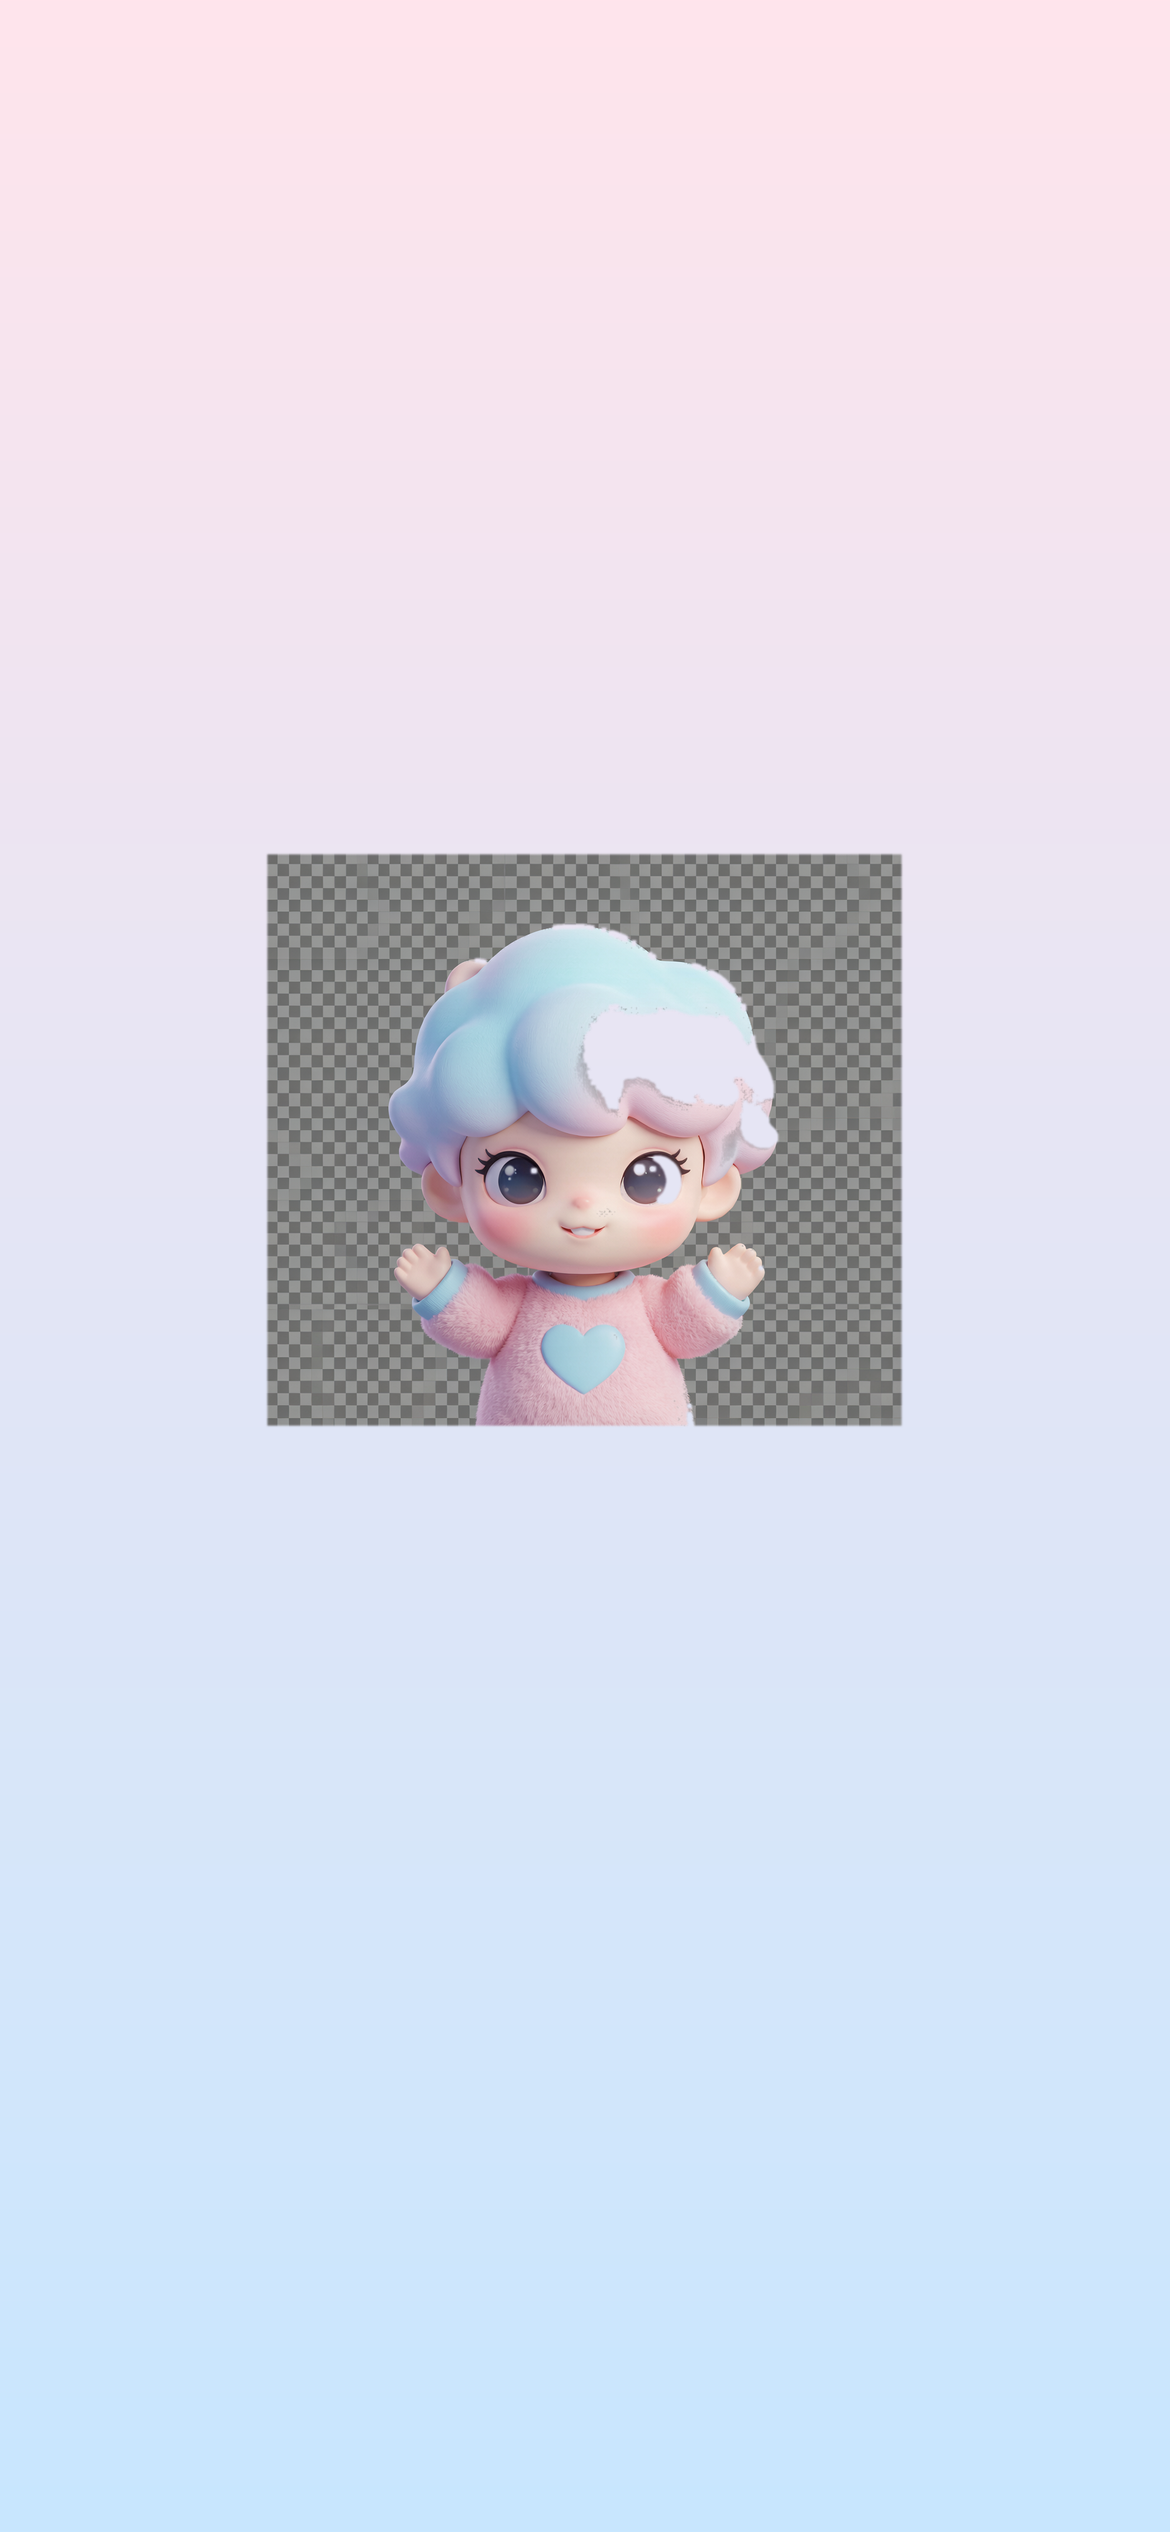
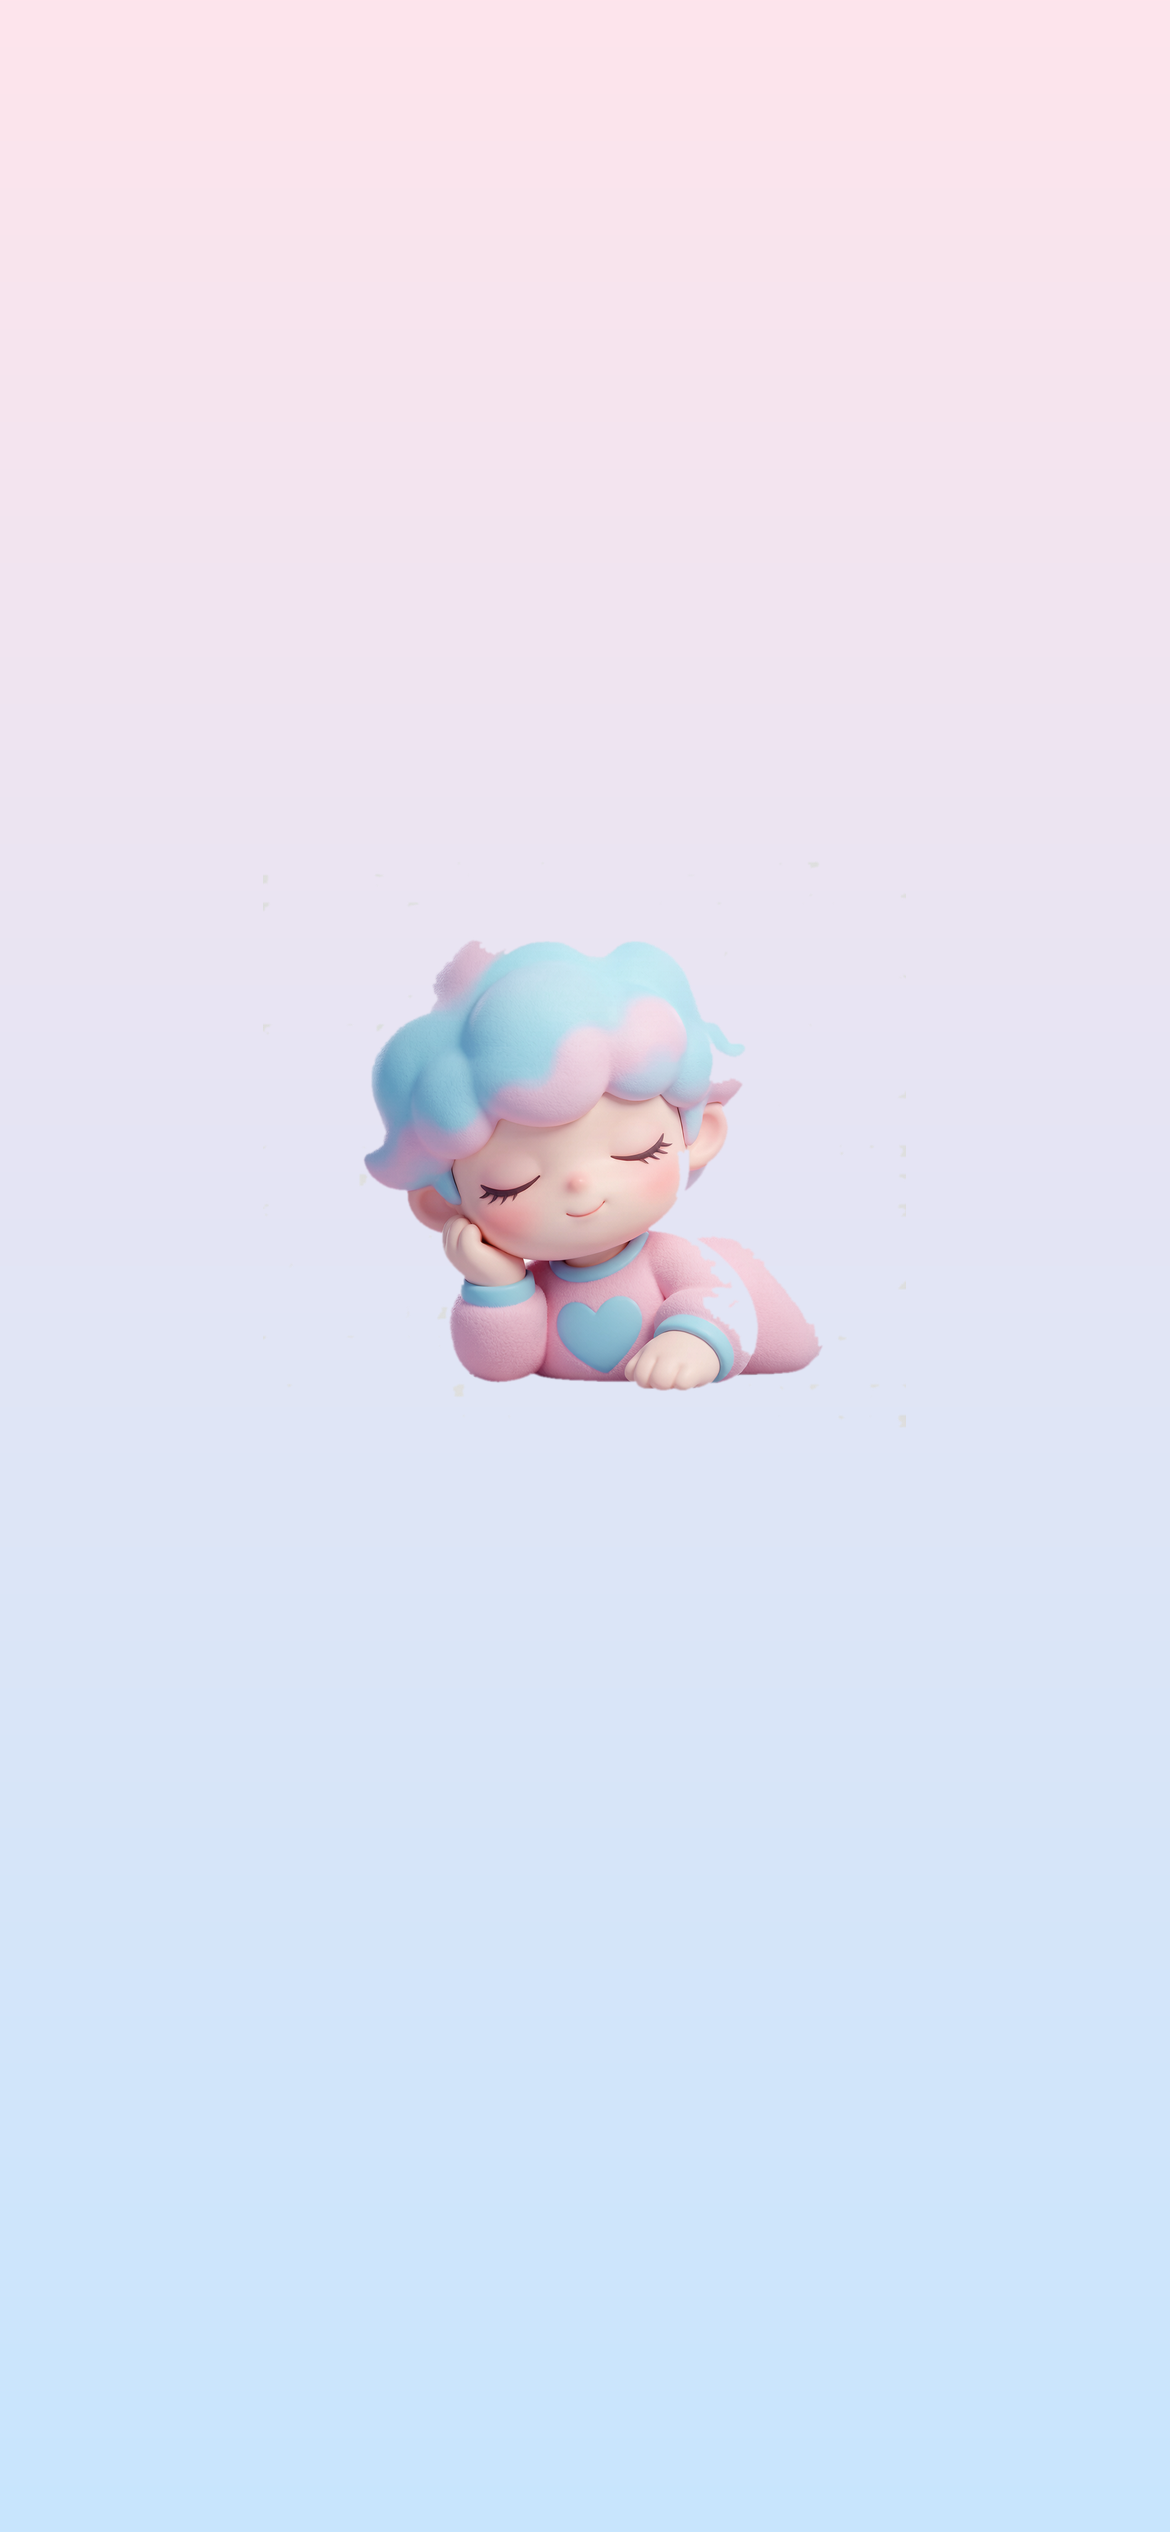
v16: 修复小满黑边（重制peek图+alpha清理）、说点啥不重叠、弹窗误关、图片变形

Changed region(s): [[0.2154, 0.312, 0.7692, 0.5616]]

diff --git a/js/xiaoman.js b/js/xiaoman.js
@@ -69,7 +69,7 @@ const Xiaoman = (function () {
     clearWakeTimers();
     hideBubble();
     hidePanel();
-    wrap.classList.remove('xm-idle', 'xm-waking', 'xm-rubbing', 'xm-open', 'xm-panel-mode');
+    wrap.classList.remove('xm-idle', 'xm-waking', 'xm-rubbing', 'xm-open', 'xm-panel-mode', 'xm-speaking');
     wrap.classList.add('xm-waking');
     // 阶段 1：起身（sleep 缩旋转消失 → rubbing 出现）~450ms
     wakeTimers.push(setTimeout(() => {
@@ -92,11 +92,17 @@ const Xiaoman = (function () {
   function close() {
     clearWakeTimers();
     wrap.classList.add('xm-idle');
-    wrap.classList.remove('xm-waking', 'xm-rubbing', 'xm-open', 'xm-panel-mode');
+    wrap.classList.remove('xm-waking', 'xm-rubbing', 'xm-open', 'xm-panel-mode', 'xm-speaking');
     hideBubble();
     hidePanel();
   }
   function toggle() {
+    if (wrap.classList.contains('xm-speaking')) {
+      // 正在说话（菜单收起中）：再点小满 → 直接恢复菜单
+      hideBubble();
+      expandMenu();
+      return;
+    }
     if (isAwake()) close();
     else open();
   }
@@ -110,7 +116,11 @@ const Xiaoman = (function () {
     bubble.hidden = false;
     bubble.classList.add('show');
     clearTimeout(bubbleTimer);
-    bubbleTimer = setTimeout(hideBubble, 2800);
+    // 气播完后菜单回来（若小满还醒着）
+    bubbleTimer = setTimeout(() => {
+      hideBubble();
+      if (isAwake()) expandMenu();
+    }, 2800);
   }
   function hideBubble() {
     clearTimeout(bubbleTimer);
@@ -118,6 +128,10 @@ const Xiaoman = (function () {
     bubble.hidden = true;
     bubble.classList.remove('show');
   }
+
+  /* ---------------- 菜单收起 / 恢复（说点啥时不与气泡重叠） ---------------- */
+  function collapseMenu() { wrap.classList.add('xm-speaking'); }
+  function expandMenu() { wrap.classList.remove('xm-speaking'); }
 
   /* ---------------- 全部模块面板（v15 居中弹窗） ---------------- */
   function showPanel() {
@@ -127,7 +141,7 @@ const Xiaoman = (function () {
       // 用户从 idle/waking 触发？——保持当前进度加速
       // 简单做法：强制进入 open
       clearWakeTimers();
-      wrap.classList.remove('xm-idle', 'xm-waking', 'xm-rubbing');
+      wrap.classList.remove('xm-idle', 'xm-waking', 'xm-rubbing', 'xm-speaking');
       wrap.classList.add('xm-open');
     }
     renderModules('');
@@ -181,8 +195,9 @@ const Xiaoman = (function () {
         break;
       }
       case 'say':
-        // 一句话：显示气泡，保持醒着
+        // 说点啥：收起菜单，气泡独占，小满保持醒着
         hidePanel();
+        collapseMenu();
         say(randomLine());
         break;
       case 'modules':
@@ -253,6 +268,9 @@ const Xiaoman = (function () {
     document.addEventListener('pointerdown', e => {
       if (wrap.contains(e.target)) return;
       if (panelMask && !panelMask.hidden && panel.contains(e.target)) return;
+      // App 自身弹窗（设置/表单）打开时不误关小满
+      const appModal = $('modal');
+      if (appModal && appModal.classList.contains('show')) return;
       if (isAwake()) close();
     });
   }

diff --git a/index.html b/index.html
@@ -6,10 +6,10 @@
   <meta name="theme-color" content="#66B6FF">
   <title>小满</title>
   <link rel="manifest" href="manifest.webmanifest">
-  <link rel="icon" href="icon.svg?v=15" type="image/svg+xml">
-  <link rel="apple-touch-icon" href="apple-touch-icon.png?v=15">
-  <link rel="icon" sizes="192x192" href="icon-192.png?v=15">
-  <link rel="icon" sizes="512x512" href="icon-512.png?v=15">
+  <link rel="icon" href="icon.svg?v=16" type="image/svg+xml">
+  <link rel="apple-touch-icon" href="apple-touch-icon.png?v=16">
+  <link rel="icon" sizes="192x192" href="icon-192.png?v=16">
+  <link rel="icon" sizes="512x512" href="icon-512.png?v=16">
   <!-- iOS PWA 启动屏：消除点击主屏图标时的黑色背景 -->
   <link rel="apple-touch-startup-image" href="startup-1170x2532.png" media="(device-width: 390px) and (device-height: 844px) and (-webkit-device-pixel-ratio: 3)">
   <link rel="apple-touch-startup-image" href="startup-1290x2796.png" media="(device-width: 430px) and (device-height: 932px) and (-webkit-device-pixel-ratio: 3)">
@@ -17,8 +17,8 @@
   <meta name="apple-mobile-web-app-capable" content="yes">
   <meta name="apple-mobile-web-app-status-bar-style" content="black-translucent">
   <meta name="apple-mobile-web-app-title" content="小满">
-  <link rel="stylesheet" href="css/style.css?v=15">
-  <link rel="stylesheet" href="css/app-v2.css?v=15">
+  <link rel="stylesheet" href="css/style.css?v=16">
+  <link rel="stylesheet" href="css/app-v2.css?v=16">
 </head>
 <body>
   <!-- 梦幻背景装饰 -->
@@ -73,7 +73,7 @@
     <div id="xm-panel-mask" class="xm-panel-mask" hidden></div>
     <div id="xm-menu" class="xm-menu">
       <button class="xm-menu-item" data-act="add">📝 快速新建</button>
-      <button class="xm-menu-item" data-act="say">💬 一句话</button>
+      <button class="xm-menu-item" data-act="say">💬 说点啥</button>
       <button class="xm-menu-item" data-act="modules">🧭 全部模块</button>
       <button class="xm-menu-item" data-act="settings">⚙ 设置</button>
     </div>
@@ -96,18 +96,18 @@
     </div>
   </div>
 
-  <script src="js/config.js?v=15"></script>
-  <script src="js/store.js?v=15"></script>
-  <script src="js/topbar.js?v=15"></script>
-  <script src="js/app.js?v=15"></script>
-  <script src="js/xiaoman.js?v=15"></script>
+  <script src="js/config.js?v=16"></script>
+  <script src="js/store.js?v=16"></script>
+  <script src="js/topbar.js?v=16"></script>
+  <script src="js/app.js?v=16"></script>
+  <script src="js/xiaoman.js?v=16"></script>
   <script>
     document.addEventListener('DOMContentLoaded', function () {
       Topbar.init();
       App.init();
       Xiaoman.init();
       if ('serviceWorker' in navigator) {
-        navigator.serviceWorker.register('sw.js?v=15').catch(function () {});
+        navigator.serviceWorker.register('sw.js?v=16').catch(function () {});
       }
     });
   </script>

diff --git a/css/app-v2.css b/css/app-v2.css
@@ -640,6 +640,7 @@ body.drawer-open #xiaoman-wrap { display: none !important; }
 .xm-img {
   position: absolute; left: 0; top: 0;
   width: 100%; height: 100%;
+  object-fit: contain;
   pointer-events: none;
   -webkit-user-drag: none;
   display: block;
@@ -814,6 +815,8 @@ body.drawer-open #xiaoman-wrap { display: none !important; }
   z-index: 2;
 }
 #xiaoman-wrap.xm-open .xm-menu { opacity: 1; transform: translateY(0) scale(1); pointer-events: auto; }
+/* 说点啥：菜单暂时收起（气泡独占，不重叠），气泡结束后自动恢复 */
+#xiaoman-wrap.xm-speaking .xm-menu { opacity: 0; transform: translateY(10px) scale(.92); pointer-events: none; }
 /* 菜单下方小尾巴（双层） */
 .xm-menu::after {
   content: '';

diff --git a/sw.js b/sw.js
@@ -1,5 +1,5 @@
 /* 极简离线缓存：缓存应用外壳，导航走网络优先、失败回退缓存 */
-const CACHE = 'wb-shell-v15';
+const CACHE = 'wb-shell-v16';
 const FILES = [
   'index.html', 'css/style.css?v=15', 'css/app-v2.css?v=15', 'js/config.js?v=15', 'js/store.js?v=15',
   'js/topbar.js?v=15', 'js/app.js?v=15', 'js/xiaoman.js?v=15', 'manifest.webmanifest',
